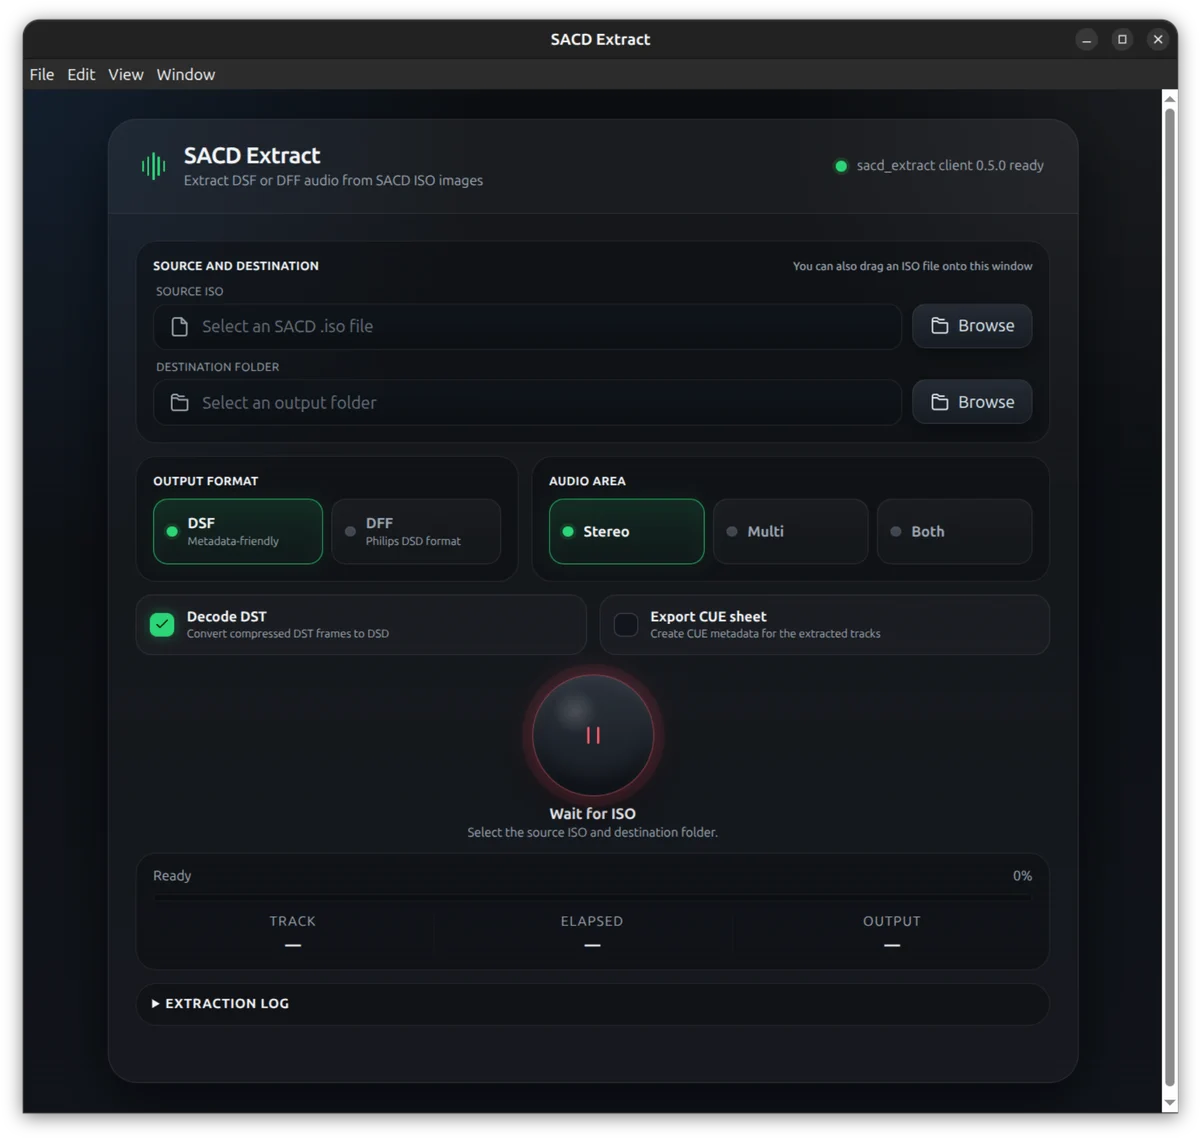
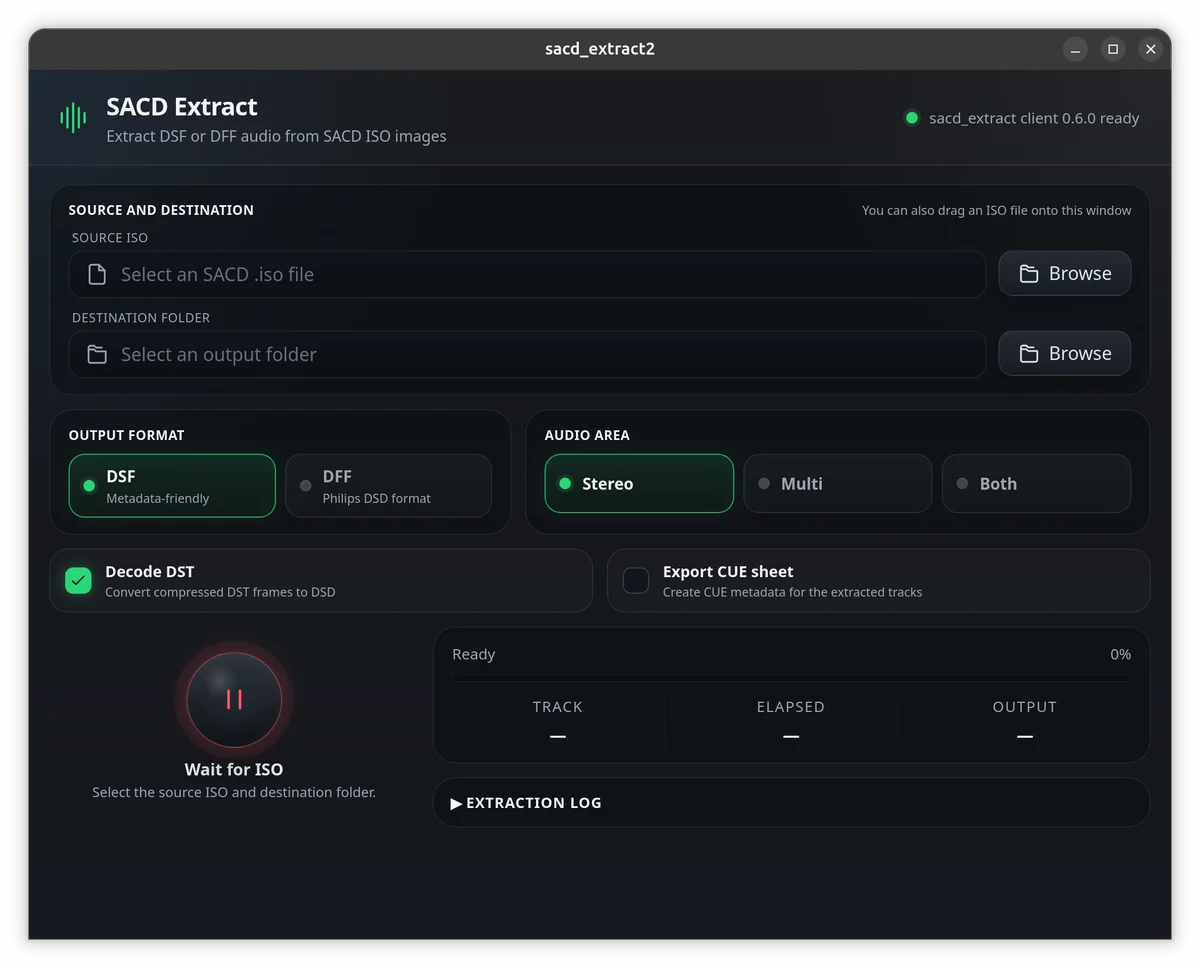
Release responsive GUI 0.7.0

diff --git a/gui/src/sacd.css b/gui/src/sacd.css
@@ -799,3 +799,144 @@ body {
     border-right: 0;
   }
 }
+
+/* Fill the Tauri webview and keep the default desktop layout within one view. */
+html,
+body {
+  width: 100%;
+  height: 100%;
+  min-height: 0;
+}
+
+body {
+  overflow-x: hidden;
+  overflow-y: auto;
+}
+
+.sacd-shell {
+  display: flex;
+  width: 100%;
+  max-width: none;
+  min-height: 100%;
+  margin: 0;
+  padding: 0;
+}
+
+.app-card {
+  flex: 1 1 auto;
+  min-width: 0;
+  min-height: 100%;
+  border: 0;
+  border-radius: 0;
+  box-shadow: none;
+}
+
+.app-header {
+  padding: 16px 22px;
+}
+
+.sacd-body {
+  grid-template-columns: minmax(220px, 0.34fr) minmax(0, 0.66fr);
+  gap: 12px;
+  padding: 16px 18px 18px;
+}
+
+.source-card,
+.settings-grid,
+.option-row {
+  grid-column: 1 / -1;
+}
+
+.source-card,
+.settings-card {
+  padding: 14px 16px;
+}
+
+.section-heading {
+  margin-bottom: 9px;
+}
+
+.field-block + .field-block {
+  margin-top: 9px;
+}
+
+.field-block label {
+  margin-bottom: 4px;
+}
+
+.path-input-wrap input,
+.action-button {
+  height: 40px;
+}
+
+.segment {
+  min-height: 52px;
+  padding: 9px 12px;
+}
+
+.switch-option {
+  min-height: 56px;
+  padding: 10px 13px;
+}
+
+.extract-section {
+  grid-column: 1;
+  grid-row: 4 / span 2;
+  min-height: 148px;
+  justify-content: center;
+  padding: 8px;
+  gap: 9px;
+}
+
+.extract-button {
+  width: 84px;
+  height: 84px;
+}
+
+.extract-button svg {
+  width: 30px;
+}
+
+.progress-panel {
+  grid-column: 2;
+  grid-row: 4;
+  align-self: stretch;
+  padding: 14px 16px;
+}
+
+.log-panel {
+  grid-column: 2;
+  grid-row: 5;
+  align-self: start;
+}
+
+.log-panel summary {
+  padding: 12px 15px;
+}
+
+@media (max-width: 760px) {
+  body {
+    overflow-x: hidden;
+    overflow-y: auto;
+  }
+
+  .sacd-body {
+    display: grid;
+    grid-template-columns: 1fr;
+    padding: 14px;
+  }
+
+  .source-card,
+  .settings-grid,
+  .option-row,
+  .extract-section,
+  .progress-panel,
+  .log-panel {
+    grid-column: 1;
+    grid-row: auto;
+  }
+
+  .extract-section {
+    min-height: 0;
+  }
+}

diff --git a/libs/libsacd/version.h b/libs/libsacd/version.h
@@ -24,7 +24,7 @@
 #define _STRINGIZER(arg)     #arg
 #define STRINGIZER(arg)      _STRINGIZER(arg)
 
-#define SACD_RIPPER_VERSION_STRING "0.6.0"
+#define SACD_RIPPER_VERSION_STRING "0.7.0"
 #define SACD_RIPPER_BUILD_STRING STRINGIZER(GIT_COMMIT_HASH)
 #define SACD_RIPPER_REPO STRINGIZER(GIT_REPO_URL)
 

diff --git a/CHANGELOG.md b/CHANGELOG.md
@@ -7,10 +7,16 @@ Earlier project history remains available in the
 
 ## [Unreleased]
 
+## [0.7.0] - 2026-08-13
+
 ### Changed
 
 - Upgrade `actions/setup-node` to v7 so GitHub Actions uses its native Node.js
   24 runtime instead of compatibility-forcing the deprecated Node.js 20 action.
+- Make the Tauri GUI fill its webview without the inset outer card, and use a
+  responsive desktop grid that avoids a scrollbar at the default window size.
+- Replace the README preview with an optimized screenshot of the responsive
+  Tauri interface.
 
 ## [0.6.0] - 2026-08-13
 
@@ -154,4 +160,5 @@ Commits:
 [0.4.4]: https://github.com/dev-zetta/sacd_extract2/compare/v0.4.3...v0.4.4
 [0.5.0]: https://github.com/dev-zetta/sacd_extract2/compare/v0.4.4...v0.5.0
 [0.6.0]: https://github.com/dev-zetta/sacd_extract2/compare/v0.5.0...v0.6.0
-[Unreleased]: https://github.com/dev-zetta/sacd_extract2/compare/v0.6.0...HEAD
+[0.7.0]: https://github.com/dev-zetta/sacd_extract2/compare/v0.6.0...v0.7.0
+[Unreleased]: https://github.com/dev-zetta/sacd_extract2/compare/v0.7.0...HEAD
